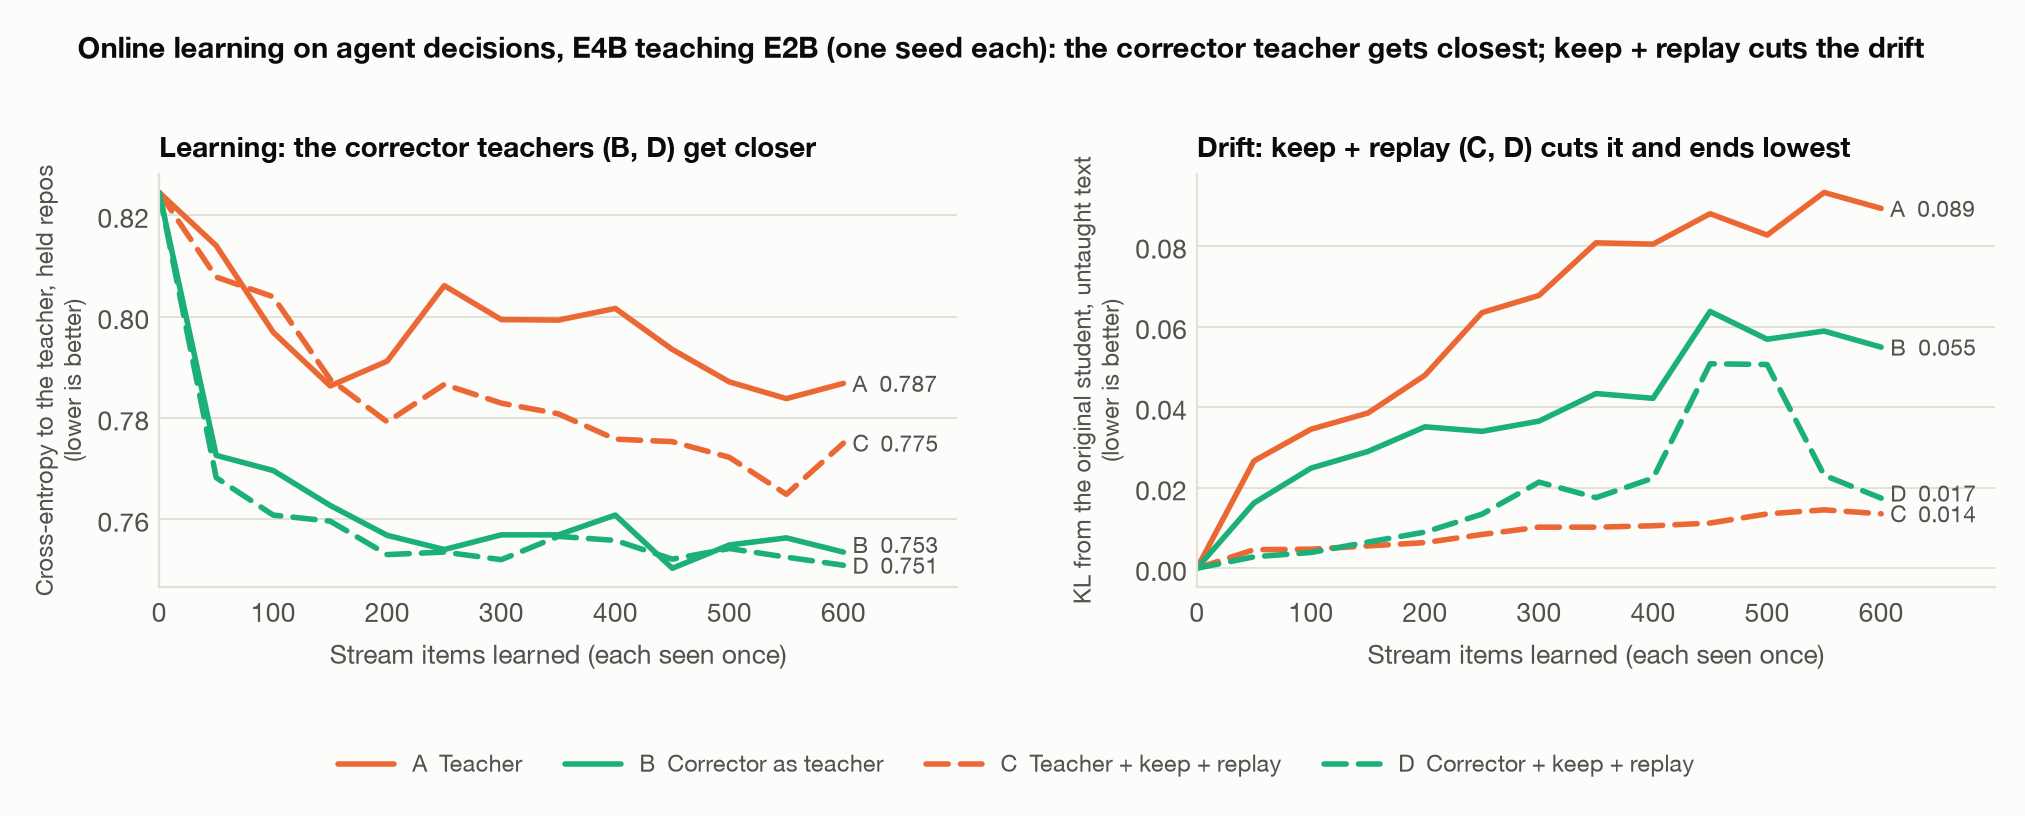
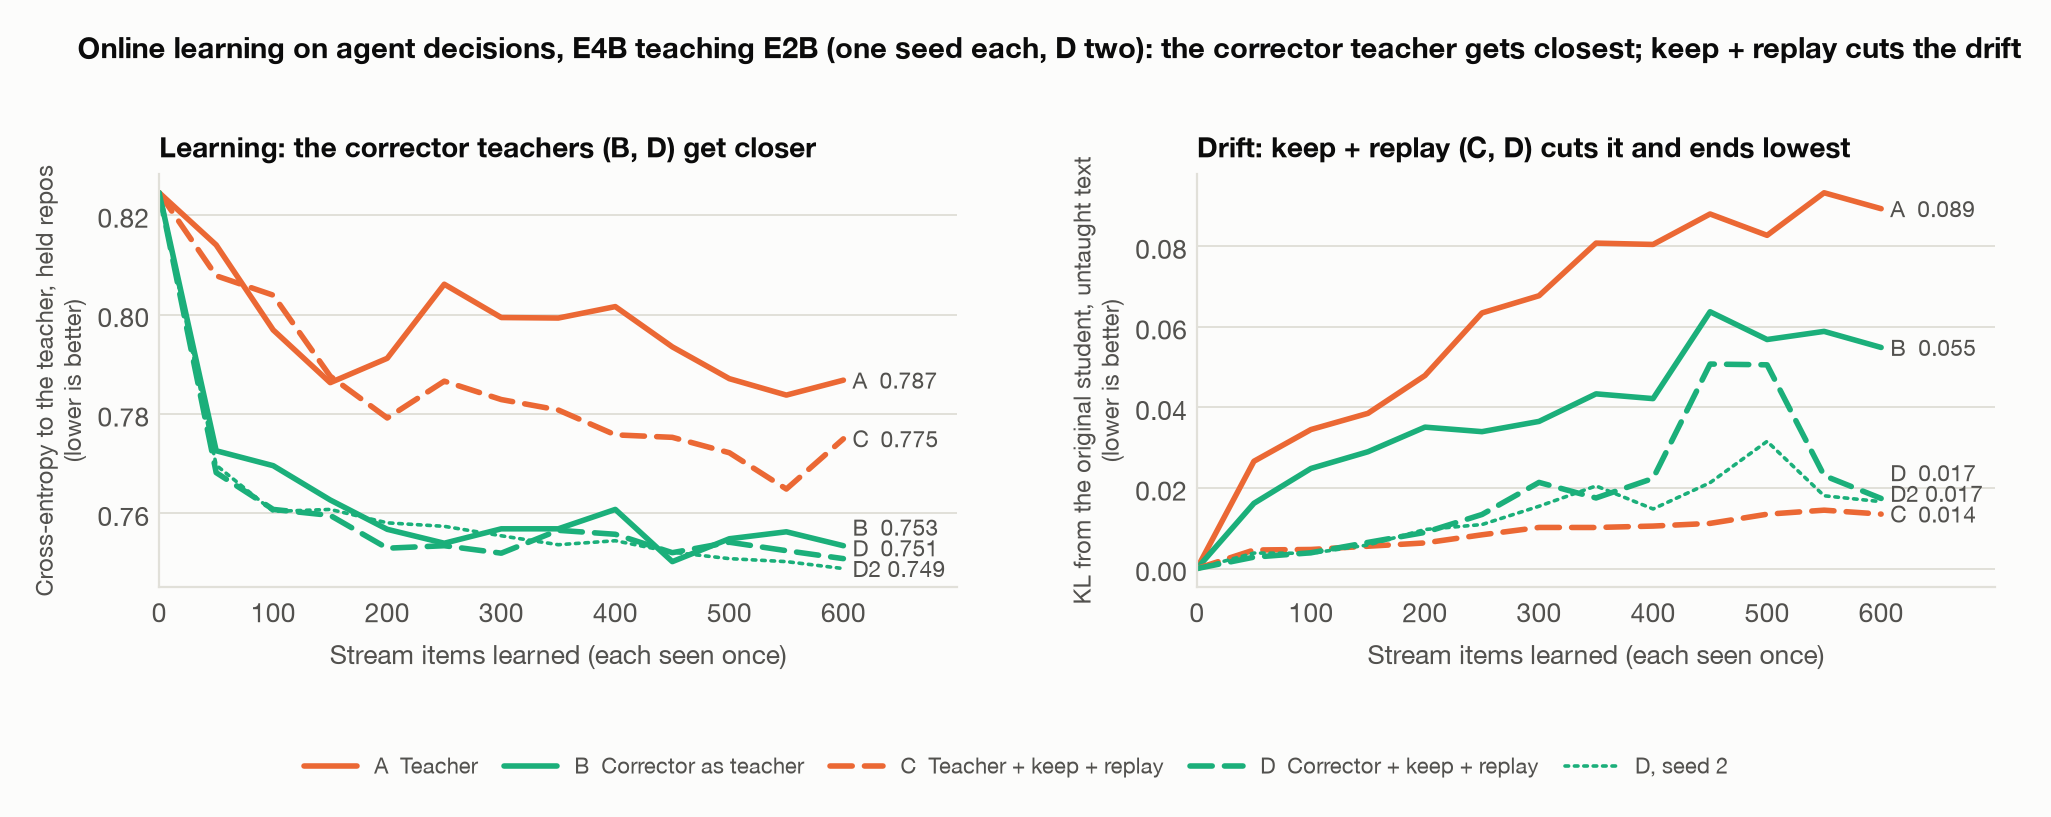
Paper draft 10d: rewriter result and corrector-length caveat restored, Appendix C complete, Figure 7 shows D seed 2

diff --git a/scripts/figures.py b/scripts/figures.py
@@ -250,16 +250,19 @@ def fig_online():
         for a in [a for a in ("direct", "bridge", "direct_keep_replay", "bridge_keep_replay") if a in O]:
             c = O[a]["run"]["held curve (bridge down)"]; x = [e["item"] for e in c]; y = [e[k] for e in c]
             ax.plot(x, y, color=col[a], lw=2, ls=dash[a], label=lab[a], solid_capstyle="round", dash_capstyle="round"); ends.append([y[-1], y[-1], x[-1], lab[a][0]])
+        if "bridge_keep_replay_s2" in O:   # 189: D's second seed, same hue, thin dotted, so the replication is visible without a fifth colour
+            c = O["bridge_keep_replay_s2"]["run"]["held curve (bridge down)"]; x = [e["item"] for e in c]; y = [e[k] for e in c]
+            ax.plot(x, y, color=S3, lw=1.3, ls=(0, (1, 1.6)), label="D, seed 2", dash_capstyle="round"); ends.append([y[-1], y[-1], x[-1], "D2"])
         lo, hi = ax.get_ylim(); gap = 0.05 * (hi - lo); ends.sort()   # end labels pushed apart so close values stay readable
         for i in range(1, len(ends)):
             ends[i][1] = max(ends[i][1], ends[i - 1][1] + gap)
         for v, yl_, x_, letter in ends:
-            ax.text(x_ + 8, yl_, f"{letter}  {v:.3f}", fontsize=8.2, va="center", color=INK2)
+            ax.text(x_ + 8, yl_, f"{letter}  {v:.3f}" if len(letter) == 1 else f"{letter} {v:.3f}", fontsize=8.2, va="center", color=INK2)
         ax.set_xlabel("Stream items learned (each seen once)"); ax.set_ylabel(yl, fontsize=8.5); ax.set_title(t, fontsize=10); ax.set_xlim(0, 700)
     axs[0].set_xticks(range(0, 601, 100)); axs[1].set_xticks(range(0, 601, 100))
     hs, ls_ = axs[0].get_legend_handles_labels()
-    fig.legend(hs, ls_, loc="lower center", ncol=4, bbox_to_anchor=(0.5, 0.0), fontsize=8.4, labelcolor=INK2, columnspacing=1.8, handlelength=2.4)
-    fig.suptitle("Online learning on agent decisions, E4B teaching E2B (one seed each): the corrector teacher gets closest; keep + replay cuts the drift", x=0.04, y=0.985, ha="left", fontsize=10.5, weight="bold")
+    fig.legend(hs, ls_, loc="lower center", ncol=len(hs), bbox_to_anchor=(0.5, 0.0), fontsize=8.4 if len(hs) < 5 else 7.9, labelcolor=INK2, columnspacing=1.8 if len(hs) < 5 else 1.2, handlelength=2.4)
+    fig.suptitle("Online learning on agent decisions, E4B teaching E2B (one seed each, D two): the corrector teacher gets closest; keep + replay cuts the drift", x=0.04, y=0.985, ha="left", fontsize=10.5, weight="bold")
     save(fig, "fig7_online.png")
 
 

diff --git a/paper.md b/paper.md
@@ -20,7 +20,7 @@ To test whether a teacher's internal states can be stored, we built a *state cor
 - Self-written solutions move the student least yet sharpen it.
 - On-policy distillation reaches its teacher's level and stops there.
 - Teacher states do not store: the corrector fed E4B's states taught no better than fed the student's own.
-- Code, results, 40,000+ graded answers and the pre-registration log (Appendix A).
+- Code, results, 40,000+ graded answers and pre-registrations (Appendix A).
 
 ## 2 Background
 
@@ -68,7 +68,7 @@ Figure 2. LoRAs trained on E4B's agent turns, on LiveCodeBench (1,739 problem-ru
 
 Every trained form beats the untrained student (p < 1e-6), and plain SFT leads the corrector's distilled self and cross-model forms (161 vs 125 problems solved by one form only, p = 0.04; 181 vs 114, p = 0.0001) while losing fewer solved problems (76, against 82-89). E4B's states added nothing a stored adapter kept (cross-model vs self, 113 vs 144); their live advantage was only 0.05-0.06 nats on agent replies. SFT with a KL pull toward the original lost the fewest (66) but gained the least (vs SFT 90 vs 195, p = 5e-10); on coding rows it did well (Section 4.5).
 
-In a separate coding run the anchors did not lose to SFT (held solved: SFT 143, anchors 146-152), and SDFT, in-context self-distillation (Shenfeld et al., 2026), lost clearly (111 held solved, 148 lost; vs SFT 25 vs 57, p = 0.0005). The shortest passing solutions (median 295 tokens, not 355) raised held solved from 149 to 160 and cut losses from 58 to 48 (clear in one seed).
+In a separate coding run the anchors did not lose to SFT (held solved: SFT 143, anchors 146-152), and SDFT, in-context self-distillation (Shenfeld et al., 2026), lost clearly (vs SFT 25 vs 57, p = 0.0005). The shortest passing solutions (median 295 tokens, not 355) raised held solved from 149 to 160 and cut losses from 58 to 48 (clear in one seed).
 
 ### 4.3 Copying within the family forgets, and an anchor fixes it
 
@@ -91,7 +91,7 @@ The likely cause is over-fitting familiar text. E2B's training loss on E4B's row
 
 Every anchor removed the damage in every seed and held E2B's training loss at 0.11-0.12, not 0.08. KL to the original kept E2B in place (prose KL 0.016, Δ loss −0.04) without costing held solves (207 vs 204). Anchors to fresh Gemma correctors moved it as far as SFT, toward lower loss and softer predictions (Δ loss −0.58 to −0.60); held solves rose by at most 12 (216 vs 204, p = 0.22), at about 25 fewer fixes per seed. Training directly on the corrector's fitting text matched that anchor (held 214 vs 216, p = 0.90; prose Δ loss −0.75) and came closer on agent replies (0.50 vs 0.65), but moved E2B much further (prose KL 0.83 vs 0.33): the anchor's gain is its fitting text, delivered with less change. The KL pull did not reduce that (0.81): it covers only the coding replies. Each Gemma corrector cut loss on its own fitting mix by 27-29% (Qwen's 34-37%) but left E2B's loss on E4B's coding rows unchanged.
 
-![Qwen and E2B per recipe](figures/fig9_e2b.png)
+![E2B per recipe](figures/fig9_e2b.png)
 
 Figure 3. Qwen3-1.7B (gray) and Gemma 4 E2B (colour) per recipe, grouped by kind.
 
@@ -147,7 +147,7 @@ Figure 5. Every coding recipe, three seeds, numbered by held-out rank; best is b
 
 ### 4.7 On-policy distillation stops at its teacher
 
-On-policy distillation through the self-corrector reached 116 held solves, its teacher's own live level (117; that teacher put 0.70 nats per token on E4B's solutions, the student alone 1.00). Refit on the 299 solutions (0.49 nats), the teacher solves 151 live and the student 148 (Table 5, Figure 6), beating the weak-teacher version in every seed but only tying SFT (38 vs 39) and losing more training problems (59 vs 42).
+On-policy distillation through the self-corrector reached 116 held solves, its teacher's own live level (117; that teacher put 0.70 nats per token on E4B's solutions, the student alone 1.00). Refit on the 299 solutions (0.49 nats), the teacher solves 151 live and the student 148 (Table 5, Figure 6), beating the weak-teacher version in every seed but only tying SFT (38 vs 39) and losing more training problems (59 vs 42). As a rewriter it copied E4B's text (similarity 0.98).
 
 Table 5. Held solved, three seeds pooled.
 
@@ -176,7 +176,7 @@ Table 6. Online learning, one seed per setup (D: two). Gate (220 held decisions)
 
 Keep + replay hurt the plain teacher (A to C: 11 fewer fixed) but helped the corrector teacher (B to D: 7 more). D had the best net gate result (+19, against +14 for A) and beat C on paired decisions (17 vs 6, p = 0.035); its untaught drift peaked at 0.05 near item 450, then fell. D's second seed reproduced it: the two differ on 6 of 220 decisions. Seed 3 of D and seeds 2-3 of C were still running, with a self-corrector teacher and a blend matched to the corrector's pull, akin to a teacher assistant (Mirzadeh et al., 2019).
 
-![Online learning curves](figures/fig7_online.png)
+![Online curves](figures/fig7_online.png)
 
 Figure 7. Held cross-entropy to the teacher and drift on untaught text over the stream.
 
@@ -184,9 +184,9 @@ Figure 7. Held cross-entropy to the teacher and drift on untaught text over the 
 
 **For training small agents.** Train on the teacher's shortest verified answers with a KL pull toward the original student, which within the family removed copying's damage at no cost; check the teacher's fit before on-policy distillation; and measure forgetting on held-out human text, with entropy, since loss on teacher text rewards imitation.
 
-**Where the corrector helps.** As an anchor it delivers its fitting text with less change; as an online teacher with keep + replay it gave the best net result in both its seeds; live, it brought the student closest to the teacher. Eight held problems neither E4B nor the untrained student solved were solved in all three seeds; for six, E4B's answer hit the cap, and two look genuine. This points to two-way composition of a generalist and a specialist, extending CALM (Bansal et al., 2024).
+**Where the corrector helps.** As an anchor it delivers its fitting text with less change; as an online teacher with keep + replay it gave the best net result in both its seeds; live, it brought the student closest to the teacher. Eight held problems neither E4B nor the untrained student solved were solved in all three seeds (six where E4B's answer hit the cap), hinting at two-way composition, extending CALM (Bansal et al., 2024).
 
-**Limitations.** Two coding students and one teacher; the online test has one seed per setup (D two). Pooled p-values are descriptive; differences under about 10 held solves are within noise. The KL pull ran at λ = 1 and the multi-task control only for E2B; a strength sweep was still running. A 768-token cap cannot separate forgetting from verbosity (lost answers ran long, 27% cut at the cap); a longer-cap re-grade was still running.
+**Limitations.** Two coding students and one teacher; the online test has one seed per setup (D two). Pooled p-values are descriptive; differences under about 10 held solves are within noise. The KL pull ran at λ = 1 and the multi-task control only for E2B; a strength sweep was still running. A 768-token cap cannot separate forgetting from verbosity (lost answers ran long, 27% cut at the cap); a longer-cap re-grade is planned. Correctors had 600 fitting steps; longer ones gave mostly worse LoRAs (one seed).
 
 **Ethical considerations.** Fitting and drift prose and stories come from locally held books, not released. Model-written code ran only in resource-limited, sandboxed interpreters.
 
@@ -294,4 +294,7 @@ Table 7. Predictions that held, per pre-registered addendum.
 | 188 (matched-loss run, E2B) | — | running |
 | 189 (online setup D: replication, controls) | 3 of 3 so far (seed 2) | running |
 | 190 (multi-task control for the corrector anchor) | 4 of 5 | met: the anchor's gain is its fitting text |
+| 191 (per-user grafts) | — | separate paper |
+| 192 (online vs offline SFT teachers) | — | running |
 | 193 (KL strength sweep) | — | running |
+| 194 (longer-cap re-grade) | — | in revision, not yet run |

diff --git a/MANIFEST.md b/MANIFEST.md
@@ -302,11 +302,11 @@ Run labels give the addendum and seed (see README.md, "Run folders").
 | `figures/fig4_untaught_prose.png` | 154.2 KB | Figure 4: drift on untaught human prose per recipe and seed |
 | `figures/fig5_teacher_cap.png` | 86.9 KB | Figure 6: each corrector teacher run live beside the on-policy student it trained |
 | `figures/fig6_losses.png` | 169.9 KB | Extra figure (cut from the paper): how often each solved problem was lost, and answer length per recipe |
-| `figures/fig7_online.png` | 207.7 KB | Figure 7: online learning, E4B to E2B, four setups, held cross-entropy and drift |
+| `figures/fig7_online.png` | 225.2 KB | Figure 7: online learning, E4B to E2B, four setups, held cross-entropy and drift |
 | `figures/fig8_agent_turns.png` | 103.7 KB | Extra figure (cut from the paper): agent replies, E4B to Qwen3-1.7B (169d) |
 | `figures/fig9_e2b.png` | 160.0 KB | Figure 3: Gemma 4 E2B as the coding student against Qwen3-1.7B, with the anchors and the multi-task control (186, 187, 190) |
-| `paper.md` | 26.1 KB | The paper: Copy, Correct, or Rewrite? |
+| `paper.md` | 26.2 KB | The paper: Copy, Correct, or Rewrite? |
 | `scripts/collect.py` | 12.0 KB | Collects every number the paper uses from the run folders into data/results.json (standard library) |
 | `scripts/drift.py` | 3.7 KB | Measures drift from the original student on untaught text (needs adapters and text rows not included) |
-| `scripts/figures.py` | 29.7 KB | Draws the nine figures from data/results.json (matplotlib) |
+| `scripts/figures.py` | 30.3 KB | Draws the nine figures from data/results.json (matplotlib) |
 | `scripts/to_html.py` | 9.7 KB | Renders paper.md into one self-contained HTML page |
